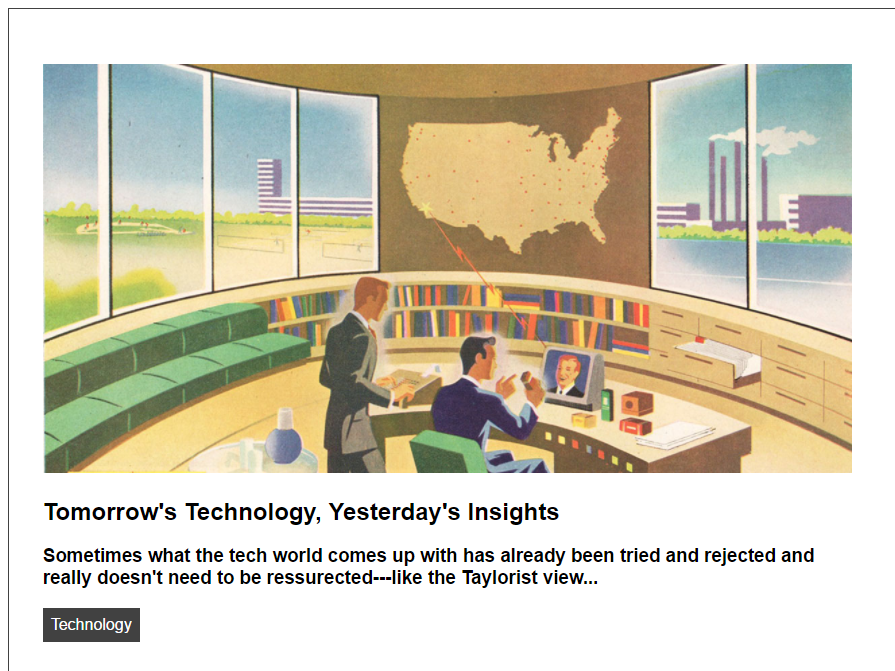
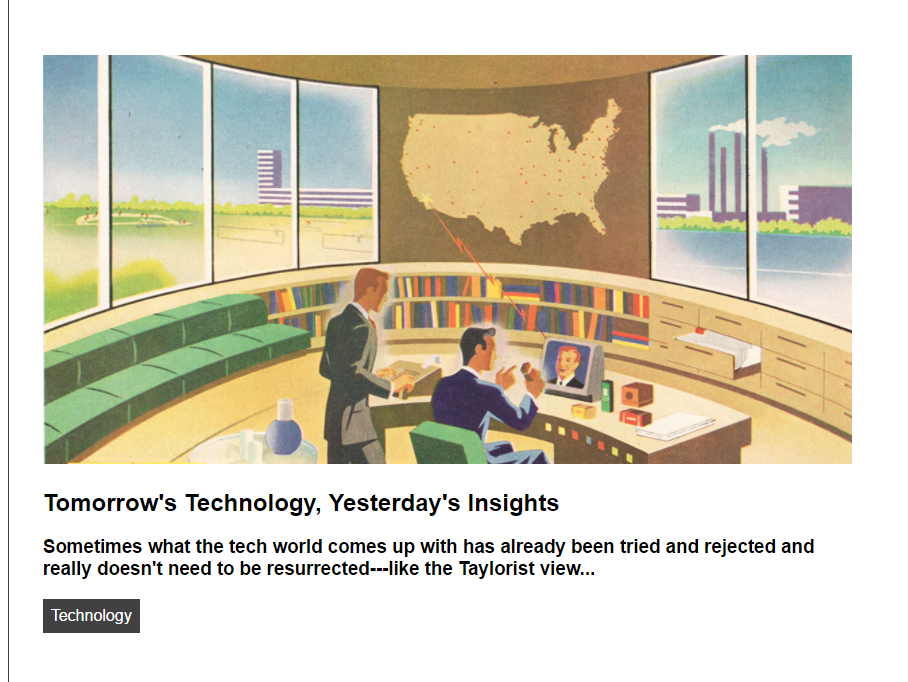
Overhaul portfolio, fix bootstrap issues, add cat

diff --git a/index.html b/index.html
@@ -8,15 +8,16 @@
     <title>Reed Jones: Web Developer</title>
 
     <!-- Bootstrap -->
-    <!-- <link href="css/bootstrap.min.css" rel="stylesheet"> -->
+    <link href="css\bootstrap.min.css" rel="stylesheet">
     <!-- <link href="css/bootstrap.css" rel="stylesheet"> -->
     <!-- Latest compiled and minified CSS -->
-    <link rel="stylesheet" href="https://maxcdn.bootstrapcdn.com/bootstrap/3.3.7/css/bootstrap.min.css" integrity="sha384-BVYiiSIFeK1dGmJRAkycuHAHRg32OmUcww7on3RYdg4Va+PmSTsz/K68vbdEjh4u" crossorigin="anonymous">
+    <!-- <link rel="stylesheet" href="https://maxcdn.bootstrapcdn.com/bootstrap/3.3.7/css/bootstrap.min.css" integrity="sha384-BVYiiSIFeK1dGmJRAkycuHAHRg32OmUcww7on3RYdg4Va+PmSTsz/K68vbdEjh4u" crossorigin="anonymous"> -->
 
     <!-- Optional theme -->
-    <link rel="stylesheet" href="https://maxcdn.bootstrapcdn.com/bootstrap/3.3.7/css/bootstrap-theme.min.css" integrity="sha384-rHyoN1iRsVXV4nD0JutlnGaslCJuC7uwjduW9SVrLvRYooPp2bWYgmgJQIXwl/Sp" crossorigin="anonymous">
+    <!-- <link rel="stylesheet" href="https://maxcdn.bootstrapcdn.com/bootstrap/3.3.7/css/bootstrap-theme.min.css" integrity="sha384-rHyoN1iRsVXV4nD0JutlnGaslCJuC7uwjduW9SVrLvRYooPp2bWYgmgJQIXwl/Sp" crossorigin="anonymous"> -->
 
     <!-- custom stylesheet below-->
+    <link href="https://fonts.googleapis.com/css?family=Rye" rel="stylesheet">
     <link rel="stylesheet" type="text/css" href="css/style.css">
     <link rel="stylesheet" href="https://cdnjs.cloudflare.com/ajax/libs/font-awesome/4.7.0/css/font-awesome.min.css">
 
@@ -57,27 +58,33 @@
               <h2>Skills</h2>
               <h3>I have 'em.</h3>
             </div>
-            <!-- <div class="skills-row row d-flex"> -->
-              <div class="card-deck">
-                <div class="card text-center col-md-4 col-sm-4 py-2">
-                  <i class="fa fa-paint-brush" style="font-size:85px;"></i>
-                  <div class="card-block">
-                    <h4 class="card-title">Design</h4>
-                    <p class="card-text">I have a keen eye for modern design trends. My attention to sound UX/UI principles results in intuitive and attractive web products.</p>
+            <!-- <div class="container"> -->
+              <div class="row">
+                <div class="col-md-4 col-sm-4">
+                  <div class="card text-center">
+                    <i class="fa fa-paint-brush" style="font-size:85px; margin: 20px 0;"></i>
+                    <div class="card-block">
+                      <h4 class="card-title">Design</h4>
+                      <p class="card-text">I have a keen eye for modern design trends. My attention to sound UX/UI principles results in intuitive and attractive web products.</p>
+                    </div>
                   </div>
                 </div>
-                <div class="card text-center col-md-4 col-sm-4">
-                  <i class="fa fa-code" style="font-size:85px;"></i>
-                  <div class="card-block">
-                    <h4 class="card-title">Development</h4>
-                    <p class="card-text">Focused, trustworthy and efficient with my time, my skills are on the cutting edge of industry web application development practices.</p>
+                <div class ="col-md-4 col-sm-4">
+                  <div class="card text-center">
+                    <i class="fa fa-code" style="font-size:85px; margin: 20px 0;"></i>
+                    <div class="card-block">
+                      <h4 class="card-title">Development</h4>
+                      <p class="card-text">Focused, trustworthy and efficient with my time, my skills are on the cutting edge of industry web application development practices.</p>
+                    </div>
                   </div>
                 </div>
-                <div class="card text-center col-md-4 col-sm-4">
-                  <i class="fa fa-thumbs-o-up" style="font-size:85px;"></i>
-                  <div class="card-block">
-                    <h4 class="card-title">Data</h4>
-                    <p class="card-text">Using a host of products including Google Analytics, I can help you track usage, target advertising, and increase social media traffic.</p>
+                <div class="col-md-4 col-sm-4">
+                  <div class="card text-center">
+                    <i class="fa fa-bar-chart" style="font-size:85px; margin: 20px 0;"></i>
+                    <div class="card-block">
+                      <h4 class="card-title">Data</h4>
+                      <p class="card-text">Using a host of products including Google Analytics, I can help you track usage, target advertising, and increase social media traffic.</p>
+                    </div>
                   </div>
                 </div>
               </div>
@@ -88,22 +95,26 @@
         <div class="container">
           <div class="row text-center">
             <h2>Portfolio</h2>
-            <h4>Some Web apps I've made</h4>
+            <h4>Some web projects I've worked on</h4>
           </div>
             <div class="row text-center d-flex">
               <div class="card-deck">
-                <div class="card col-md-6 col-sm-6">
-                  <img class="img-responsive card-img-top" src="img/nomadic.png" alt="Card image cap">
-                  <div id= "portfolio1" class="card-block">
-                    <h4 class="card-title">Nomadic Dave's</h4>
-                    <p class="card-text">Dave Shoenblum came to me with an idea for a small group tour agency. We made him a great website and now he makes money traveling half of the year!</p>
+                <div class="col-md-6 col-sm-6">
+                  <div class="thumbnail-inverse">
+                    <img class="thumbnail img-responsive card-img-top" src="img/nomadic.png" alt="Card image cap">
+                    <div id= "portfolio1" class="card-block">
+                      <h4 class="card-title">Nomadic Dave's</h4>
+                      <p class="card-text">Dave Shoenblum came to me with an idea for a small group tour agency. We made him a great website and now he makes money traveling half of the year!</p>
+                    </div>
                   </div>
                 </div>
-                <div class="card col-md-6 col-sm-6">
-                  <img class="img-responsive card-img-top" src="img/reed.png" alt="Card image cap">
-                  <div id= "portfolio2" class="card-block">
-                    <h4 class="card-title">Reeddouglasjones.com</h4>
-                    <p class="card-text">This is a personal website I made using Squarespace. It showcases my various skills, galleries of things I've built, artwork I've made and a blog. </p>
+                <div class="col-md-6 col-sm-6">
+                  <div class="thumbnial-inverse">
+                    <img class="thumbnail img-responsive card-img-top" src="img/reed.png" alt="Card image cap">
+                    <div id= "portfolio2" class="card-block">
+                      <h4 class="card-title">Reeddouglasjones.com</h4>
+                      <p class="card-text">This is a personal website I made using Squarespace. It showcases my various skills, galleries of things I've built, artwork I've made and a blog. </p>
+                    </div>
                   </div>
                 </div>
                 <div class="clearfix"></div>
@@ -111,18 +122,22 @@
             </div>
             <div class="row text-center d-flex">
               <div class="card-deck">
-                <div class="card col-md-6 col-sm-6">
-                  <img class="img-responsive card-img-top" src="img/travel.png" alt="Card image cap">
-                  <div id="portfolio3" class="card-block">
-                    <h4 class="card-title">Travel Junkie</h4>
-                    <p class="card-text">Travel blog website of New Jersey native Steve Sczaljwyck. Blog uses Facebook APIs to populate with all the latest from Steve's adventures! </p>
+                <div class="col-md-6 col-sm-6">
+                  <div class="thumbnail-inverse">
+                    <img class="thumbnail img-responsive card-img-top" src="img/travel.png" alt="Card image cap">
+                    <div id="portfolio3" class="card-block">
+                      <h4 class="card-title">Travel Junkie</h4>
+                      <p class="card-text">Travel blog website of New Jersey native Steve Sczaljwyck. Blog uses Facebook APIs to populate with all the latest from Steve's adventures! </p>
+                    </div>
                   </div>
                 </div>
-                <div class="card col-md-6 col-sm-6">
-                  <img class="img-responsive card-img-top" src="img/techimg.png" alt="Card image cap">
-                  <div id="portfolio4" class="card-block">
-                    <h4 class="card-title">Tomorrow's Technology</h4>
-                    <p class="card-text">Tech news site and blog focusing on industry trends, conscious use of modern media and increased understanding of pros/cons of increased automation.</p>
+                <div class="col-md-6 col-sm-6">
+                  <div class="thumbnail-inverse">
+                    <img class="thumbnail img-responsive card-img-top" src="img/techimg.png" alt="Card image cap">
+                    <div id="portfolio4" class="card-block">
+                      <h4 class="card-title">Tomorrow's Technology</h4>
+                      <p class="card-text">Tech news site and blog focusing on industry trends, conscious use of modern media and increased understanding of pros/cons of increased automation.</p>
+                    </div>
                   </div>
                 </div>
               </div>
@@ -155,6 +170,17 @@
                 I am so happy with the website Reed built for us. I run a small hair salon and boutique and he made it easy for customers to book online, and browse and shop products in our Amazon store directly from the website.
               </p>
               <h5>Sheena Trowser, Coiffify.co.uk</h5>
+            </div>
+          </article>
+          <article class="testimonial-container">
+            <div>
+              <img class="cat" src="img/cat.jpg"/>
+            </div>
+            <div class="testimonial-container-text">
+              <p>
+                Meow meow meow meow Reed, Meow meow meow meow meow Website, meow SEO, meow Social Media, meow meow meow meow meow Blogs meow Games! Meow meow meow meow meow meow, meow-meow Meow purrr Meow, meow-meow meow meow!
+              </p>
+              <h5>Otis K. Biggins, funsploration.net</h5>
             </div>
           </article>
         </div>

diff --git a/css/style.css b/css/style.css
@@ -3,6 +3,11 @@ body {
   background-color: whitesmoke;
 }
 
+.topnav h1 {
+  font-family: 'Rye';
+  font-weight: lighter;
+}
+
 header {
   display: flex;
   flex-direction: column;
@@ -77,6 +82,7 @@ li {
 .skills-style .card {
   background-color: #333;
   color: whitesmoke;
+  margin: 10px 0;
 
 }
 
@@ -89,7 +95,7 @@ li {
 .card {
   padding: 2%;
   border-radius: 5px;
-  border: 3px solid whitesmoke;
+  /*border: 3px solid whitesmoke;*/
 }
 
 .plants {
@@ -129,6 +135,11 @@ li {
 }
 
 .woman {
+  border-radius: 100%;
+  width: 140px;
+}
+
+.cat {
   border-radius: 100%;
   width: 140px;
 }
@@ -177,6 +188,10 @@ footer a:hover {
     text-align: center;
   }
 
+  .skills-style {
+    padding: 0 15%;
+  }
+
   header {
     background-image: none;
     background-color: #333;
@@ -210,5 +225,9 @@ footer a:hover {
 @media (max-width: 372px) {
   .header-text {
     margin-top: 120px;
+  }
+
+  .skills-style {
+    padding: 12%;
   }
 }
